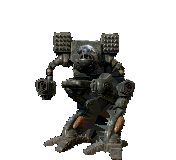
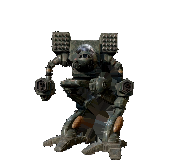
fix(character): Distinct Timber Wolf frontals; sit hunkers
Spec miss on #161: idle/talk/land/sit were near-copies (mean RGB ~1–3).
Remat camera-facing poses from the turn clip with spread source frames,
sleep as an early torso-twist scan, land mildly compressed, and sit at a
clearly shorter hunker scale. Strengthen timber_wolf_poses_are_not_copies
with a mean-RGB near-dupe gate and a sit-vs-idle height check.

Walk/fall kept from the prior remat. Package tests green.

Changed region(s): [[0.1705, 0.1875, 0.767, 1.0]]

diff --git a/crates/core/tests/character_packages.rs b/crates/core/tests/character_packages.rs
@@ -278,8 +278,58 @@ fn timber_wolf_frames_share_one_canvas_at_a_desktop_scale() {
     );
 }
 
+/// Decode RGBA8 pixels from a frame PNG.
+fn frame_rgba(bytes: &[u8]) -> (usize, usize, Vec<[u8; 4]>) {
+    let mut reader = png::Decoder::new(Cursor::new(bytes))
+        .read_info()
+        .expect("every frame is a PNG");
+    let info = reader.info();
+    let (width, height) = (info.width as usize, info.height as usize);
+    let mut buf = vec![0; reader.output_buffer_size().expect("frame fits in memory")];
+    let frame = reader.next_frame(&mut buf).expect("frame decodes");
+    let pixels = buf[..frame.buffer_size()]
+        .chunks_exact(4)
+        .map(|p| [p[0], p[1], p[2], p[3]])
+        .collect();
+    (width, height, pixels)
+}
+
+/// Mean absolute RGB distance over pixels visible in either frame.
+/// Near-duplicate frontals from the turn clip score ~1-3; distinct poses score >> 15.
+fn mean_rgb_distance(a: &[[u8; 4]], b: &[[u8; 4]]) -> f64 {
+    assert_eq!(a.len(), b.len(), "frames share one canvas");
+    let mut sum = 0.0;
+    let mut n = 0.0;
+    for (pa, pb) in a.iter().zip(b.iter()) {
+        let va = pa[3] >= VISIBLE;
+        let vb = pb[3] >= VISIBLE;
+        if !(va || vb) {
+            continue;
+        }
+        let (ra, ga, ba) = if va {
+            (pa[0] as f64, pa[1] as f64, pa[2] as f64)
+        } else {
+            (0.0, 0.0, 0.0)
+        };
+        let (rb, gb, bb) = if vb {
+            (pb[0] as f64, pb[1] as f64, pb[2] as f64)
+        } else {
+            (0.0, 0.0, 0.0)
+        };
+        sum += ((ra - rb).abs() + (ga - gb).abs() + (ba - bb).abs()) / 3.0;
+        n += 1.0;
+    }
+    if n == 0.0 {
+        0.0
+    } else {
+        sum / n
+    }
+}
+
 /// #161: idle, land, sit, sleep, hold, react and talk must each be their own
-/// art — not copies of one shared stand.
+/// art — not byte-identical copies, and not near-duplicate frontals (mean RGB
+/// ~1-3) that look like one shared stand. Sit must also read as a hunker:
+/// clearly shorter silhouette than idle.
 #[test]
 fn timber_wolf_poses_are_not_copies_of_each_other() {
     let posed = ["idle", "land", "sit", "sleep", "hold", "react", "talk"];
@@ -288,6 +338,7 @@ fn timber_wolf_poses_are_not_copies_of_each_other() {
         .filter(|(animation, _, _)| posed.contains(&animation.as_str()))
         .collect();
 
+    // Byte-identity still fails exact copies.
     for (i, (animation, frame, bytes)) in frames.iter().enumerate() {
         for (other_animation, other_frame, other_bytes) in &frames[i + 1..] {
             if animation == other_animation {
@@ -295,11 +346,62 @@ fn timber_wolf_poses_are_not_copies_of_each_other() {
             }
             assert!(
                 bytes != other_bytes,
-                "{animation} frame {frame} is the same art as {other_animation} \
-                 frame {other_frame}"
+                "{animation} frame {frame} is the same art as {other_animation}                  frame {other_frame}"
             );
         }
     }
+
+    // First frame of each pose vs every other pose: near-duplicate frontals
+    // from the turn clip scored mean RGB ~1-3; distinct art clears 15+.
+    const MIN_MEAN_RGB: f64 = 12.0;
+    let first: Vec<_> = posed
+        .iter()
+        .map(|anim| {
+            let (frame, bytes) = frames
+                .iter()
+                .find(|(a, _, _)| a == anim)
+                .map(|(_, f, b)| (f.clone(), b.clone()))
+                .unwrap_or_else(|| panic!("{anim} has a first frame"));
+            let (_, _, rgba) = frame_rgba(&bytes);
+            ((*anim).to_string(), frame, rgba)
+        })
+        .collect();
+
+    for (i, (animation, frame, rgba)) in first.iter().enumerate() {
+        for (other_animation, other_frame, other_rgba) in &first[i + 1..] {
+            let d = mean_rgb_distance(rgba, other_rgba);
+            assert!(
+                d >= MIN_MEAN_RGB,
+                "{animation} frame {frame} is a near-copy of {other_animation}                  frame {other_frame} (mean RGB distance {d:.2}, need >= {MIN_MEAN_RGB})"
+            );
+        }
+    }
+
+    // Sit is a hunker: silhouette at least 12px shorter than idle.
+    let idle_h = {
+        let bytes = &frames
+            .iter()
+            .find(|(a, f, _)| a == "idle" && f.ends_with("idle-0.png"))
+            .expect("idle-0")
+            .2;
+        let (w, h, alpha) = frame_alpha(bytes);
+        let (top, bottom, _) = silhouette(w, h, &alpha);
+        bottom - top + 1
+    };
+    let sit_h = {
+        let bytes = &frames
+            .iter()
+            .find(|(a, f, _)| a == "sit" && f.ends_with("sit-0.png"))
+            .expect("sit-0")
+            .2;
+        let (w, h, alpha) = frame_alpha(bytes);
+        let (top, bottom, _) = silhouette(w, h, &alpha);
+        bottom - top + 1
+    };
+    assert!(
+        sit_h + 12 <= idle_h,
+        "sit silhouette is {sit_h}px and idle is {idle_h}px; sit must hunker at least 12px lower"
+    );
 }
 
 /// #161: a patrol mech tracks a near contact and raises a weapon on a rush.
